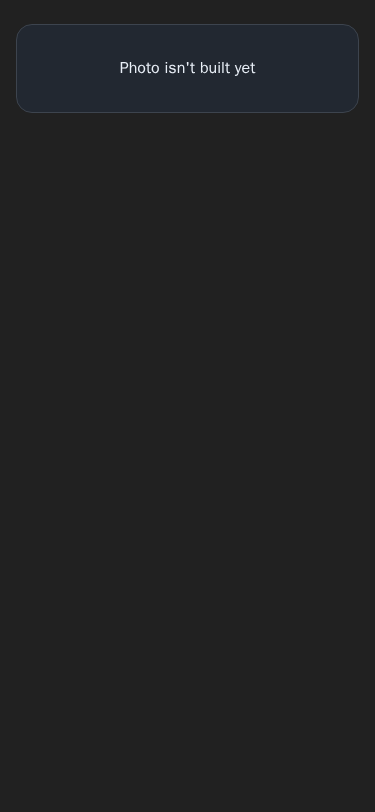
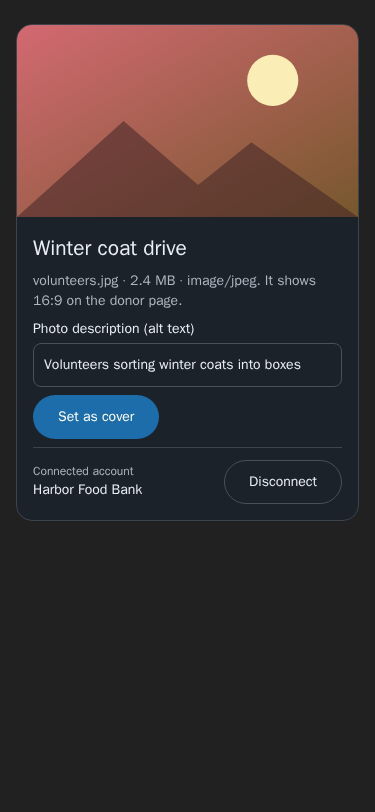
Retake the widget screenshots and note where they differ from the design

Changed region(s): [[0.0293, 0.0308, 0.968, 0.6158], [0.4987, 0.3387, 0.8507, 0.3695], [0.6747, 0.585, 0.8507, 0.6158]]

diff --git a/docs/widget-screenshots/README.md b/docs/widget-screenshots/README.md
@@ -1,0 +1,42 @@
+# Widget screenshots
+
+Each PNG is one widget state mounted in headless Chromium against a fake MCP Apps host (`test/widget-host/`). Names are `<nn>-<widget>-<state>-<light|dark>-<width>.png`: `01` campaign create, `02` campaigns carousel, `03` results card, `04` editor, `05` photo card. Regenerate with `pnpm exec tsx scripts/widget-shots.ts`; the states live in `test/widget-host/fixtures.ts`.
+
+States: `01` presets (history) and starting (no history); `02` five, empty, error; `03` draft, live, end-confirm (End campaign pressed); `04` blocks (fullscreen); `05` dropped (a photo in the chat), none. Every state is shot light and dark at 1440 and 375. The inline widgets sit in a 736px column at 1440, as a chat column does.
+
+## Where the widgets differ from DESIGN.md
+
+The mockup images could not be opened in the build environment, so this compares the built widgets with DESIGN.md's written per-screen rationale.
+
+**01 Campaign create**
+- Four preset cards as a radio group, a "Recommended from your past results" strip with an evidence sentence per value, and Create draft / Customize match.
+- The strip's four values are shown in a row; the cards do not collapse to 2x2 below 640px but stack by the column's own wrapping.
+- The mockup's pre-selected card comes from the render tool's `theme` input; with none, Emergency is selected.
+- "Starting points" (fewer than 2 past campaigns and 25 gifts) is a state DESIGN.md leaves open; it shows the theme defaults with the strip labelled as starting points.
+
+**02 Carousel**
+- Same card layout as DESIGN.md: image, status chip, title, raised of goal with the real percent (123% shown, bar capped at 100% and green), one metadata line, one action.
+- At 1440 the 736px chat column shows three cards and the rest scroll sideways; DESIGN.md's mockup shows all five at once. At 375 one card shows at a time.
+
+**03 Results card**
+- Draft: readiness checklist, "Gifts go to" and Publish / Preview match. "Gifts go to" is a select above the buttons, not in the footer.
+- Live: raised vs goal with a progress bar, donors, average and median gift, last 7 days against the previous 7 with a sparkline. End campaign is the red-outline button; the confirm states the effect, the donor count and that it cannot be undone, focus starts on Keep it live, and only the filled red button ends the campaign.
+- The sparkline has no axis or tooltip.
+
+**04 Editor**
+- Left: draggable block list (with up/down buttons and remove), Add block, and the selected block's fields. Right: live donor-page preview with a desktop/phone toggle. The header has Close, the draft chip, "Saved · v14", Save and Publish.
+- Not built: the ChatGPT composer and the last assistant reply under the editor (the host draws them), and the "Add block" row inside the list (it is a select under the list).
+- Block fields are the block's plain text, number and switch settings; richer settings (rich-text story, images) are changed by asking in the chat, and the editor says so.
+- The preview uses Quicksand (the repo's bundled file, inlined in the widget) and 4px corners, as DESIGN.md asks. It shows no logo lockup: the repo has no lockup image, only the mark.
+- At 375 the preview sits below the fields instead of beside them.
+
+**05 Photo card**
+- 16:9 cover, file name, size and type, editable alt text and Set as cover match. Where the host takes no file the card offers Open upload link instead.
+- Not built: Adjust crop. The upload sends the file as it is, so a crop control would promise something the connector does not do.
+- Account section: the connected nonprofit (from `get_profile`) and Disconnect. Disconnect asks the chat how to disconnect, because disconnecting is the host's own flow. There is no list of other orgs (the deployment has none), as the brief decided.
+- The status lines, the locale table and the host-drawn parts of the mockup sheet are not widgets and are not built.
+
+## Across all widgets
+- Widget UI uses the system font and host radii; brand colour carries the meaning, as DESIGN.md says. The dark half is the repo's own addition (Platform's palette is light only); the donor-page preview stays light in dark hosts.
+- Money and dates use the reader's locale and stay in the campaign's currency.
+- The fake host is not ChatGPT or Claude. Rendering inside the real hosts, including whether they allow a font inlined as a data URL, has not been checked.
